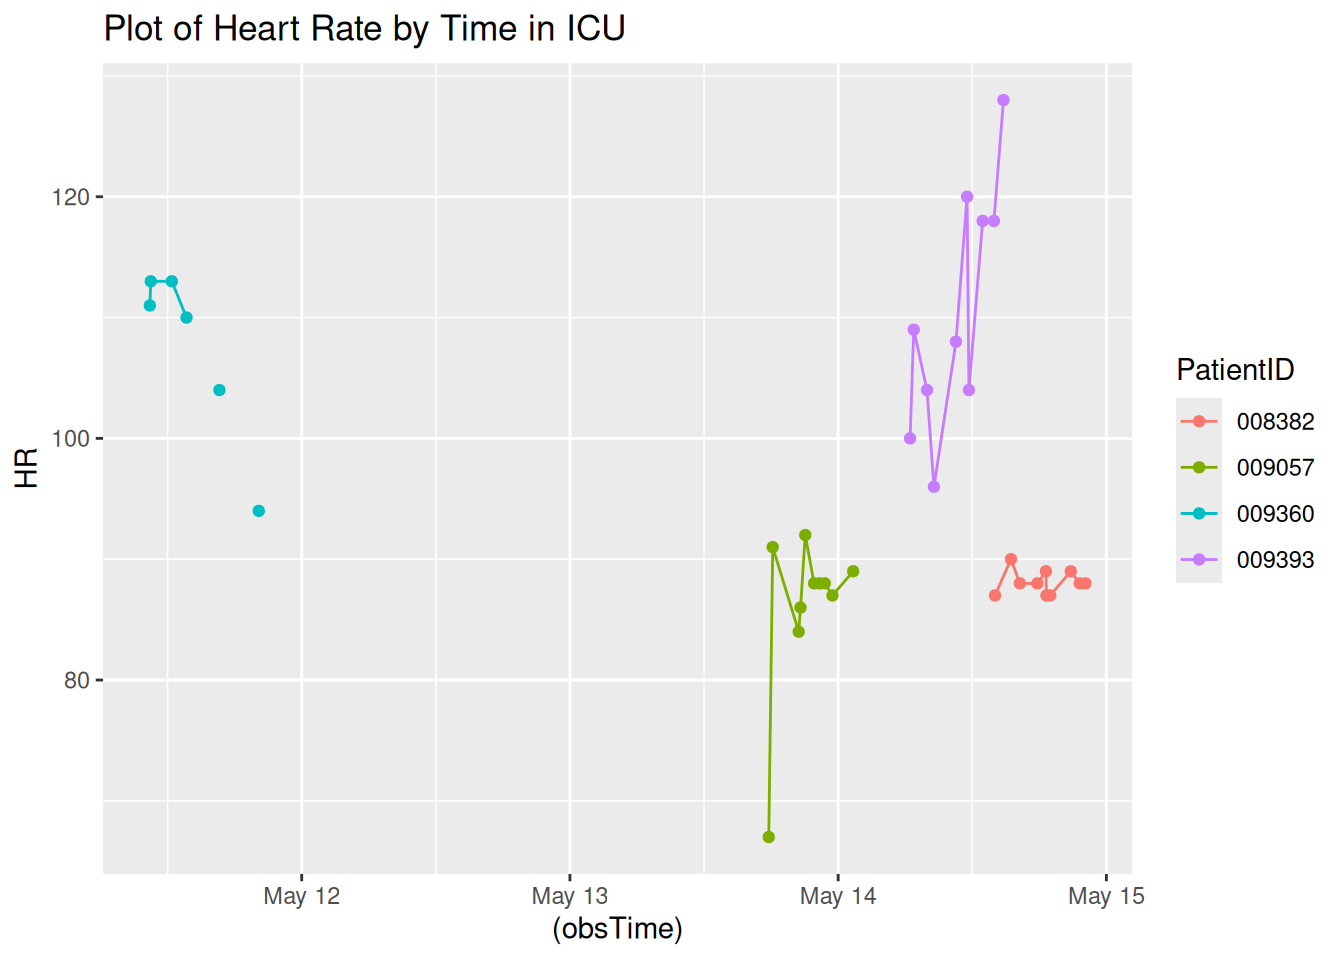
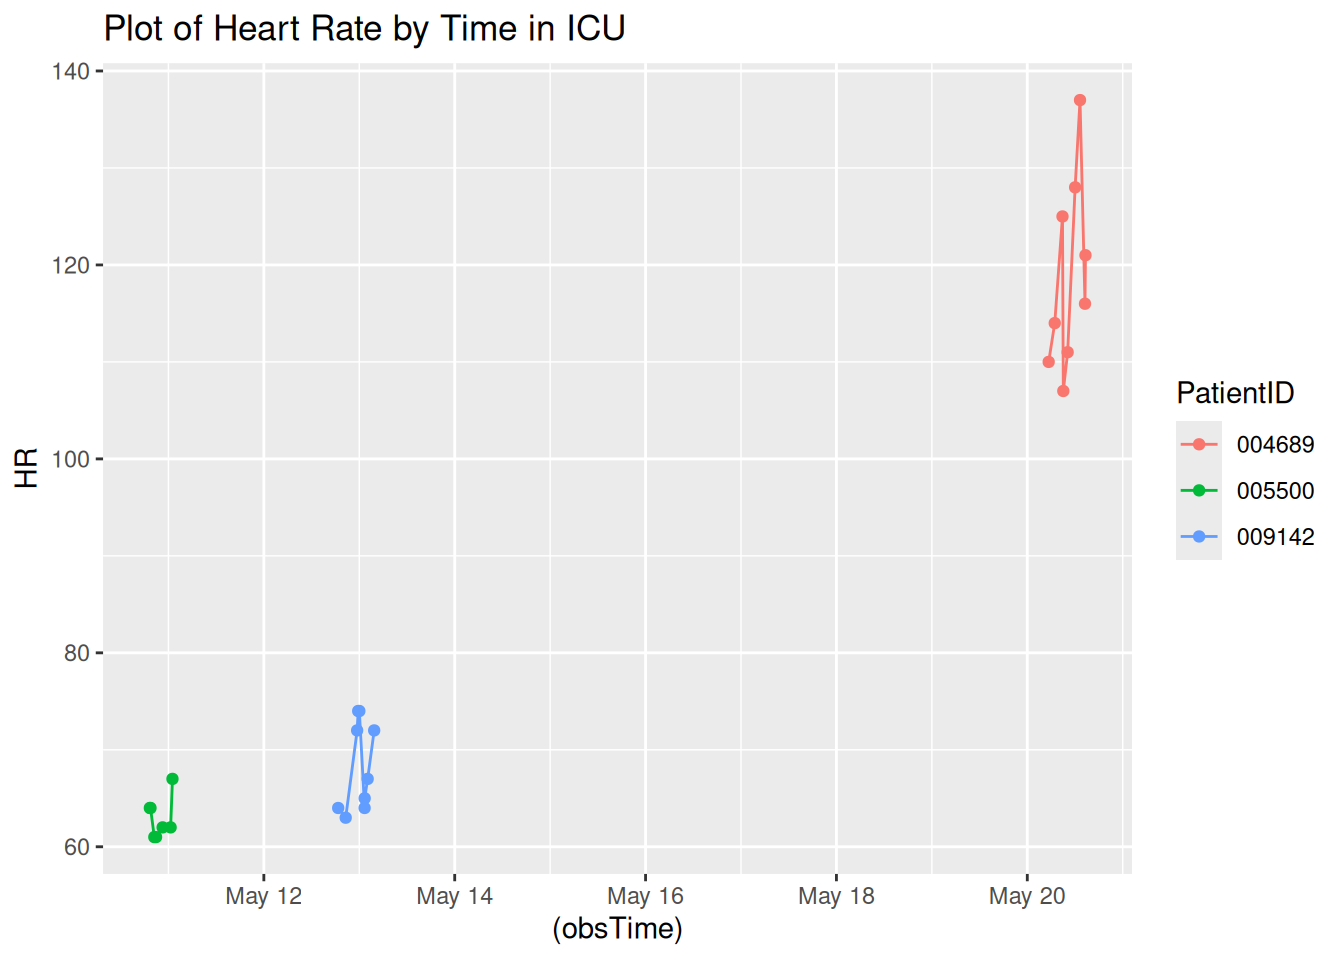
Updated report

diff --git a/A7.html b/A7.html
@@ -118,7 +118,7 @@ pre > code.sourceCode > span > a:first-child::before { text-decoration: underlin
 </div>
 <div class="sourceCode cell-code" id="cb4"><pre class="sourceCode r code-with-copy"><code class="sourceCode r"><span id="cb4-1"><a href="#cb4-1" aria-hidden="true" tabindex="-1"></a><span class="fu">toc</span>()</span></code><button title="Copy to Clipboard" class="code-copy-button"><i class="bi"></i></button></pre></div>
 <div class="cell-output cell-output-stdout">
-<pre><code>12.625 sec elapsed</code></pre>
+<pre><code>11.566 sec elapsed</code></pre>
 </div>
 <div class="sourceCode cell-code" id="cb6"><pre class="sourceCode r code-with-copy"><code class="sourceCode r"><span id="cb6-1"><a href="#cb6-1" aria-hidden="true" tabindex="-1"></a><span class="fu">tic</span>()</span>
 <span id="cb6-2"><a href="#cb6-2" aria-hidden="true" tabindex="-1"></a>test1<span class="ot">=</span><span class="fu">makeSepsisDataset</span>(<span class="at">n=</span><span class="dv">50</span>,<span class="at">read_fn =</span> <span class="st">"read_delim"</span>)</span>
@@ -128,7 +128,7 @@ pre > code.sourceCode > span > a:first-child::before { text-decoration: underlin
 </div>
 <div class="sourceCode cell-code" id="cb8"><pre class="sourceCode r code-with-copy"><code class="sourceCode r"><span id="cb8-1"><a href="#cb8-1" aria-hidden="true" tabindex="-1"></a><span class="fu">toc</span>()</span></code><button title="Copy to Clipboard" class="code-copy-button"><i class="bi"></i></button></pre></div>
 <div class="cell-output cell-output-stdout">
-<pre><code>8.411 sec elapsed</code></pre>
+<pre><code>7.326 sec elapsed</code></pre>
 </div>
 <div class="sourceCode cell-code" id="cb10"><pre class="sourceCode r code-with-copy"><code class="sourceCode r"><span id="cb10-1"><a href="#cb10-1" aria-hidden="true" tabindex="-1"></a><span class="co"># n=100</span></span>
 <span id="cb10-2"><a href="#cb10-2" aria-hidden="true" tabindex="-1"></a><span class="fu">tic</span>()</span>
@@ -139,7 +139,7 @@ pre > code.sourceCode > span > a:first-child::before { text-decoration: underlin
 </div>
 <div class="sourceCode cell-code" id="cb12"><pre class="sourceCode r code-with-copy"><code class="sourceCode r"><span id="cb12-1"><a href="#cb12-1" aria-hidden="true" tabindex="-1"></a><span class="fu">toc</span>()</span></code><button title="Copy to Clipboard" class="code-copy-button"><i class="bi"></i></button></pre></div>
 <div class="cell-output cell-output-stdout">
-<pre><code>12.834 sec elapsed</code></pre>
+<pre><code>11.17 sec elapsed</code></pre>
 </div>
 <div class="sourceCode cell-code" id="cb14"><pre class="sourceCode r code-with-copy"><code class="sourceCode r"><span id="cb14-1"><a href="#cb14-1" aria-hidden="true" tabindex="-1"></a><span class="fu">tic</span>()</span>
 <span id="cb14-2"><a href="#cb14-2" aria-hidden="true" tabindex="-1"></a>test1<span class="ot">=</span><span class="fu">makeSepsisDataset</span>(<span class="at">n=</span><span class="dv">100</span>,<span class="at">read_fn =</span> <span class="st">"read_delim"</span>)</span>
@@ -149,7 +149,7 @@ pre > code.sourceCode > span > a:first-child::before { text-decoration: underlin
 </div>
 <div class="sourceCode cell-code" id="cb16"><pre class="sourceCode r code-with-copy"><code class="sourceCode r"><span id="cb16-1"><a href="#cb16-1" aria-hidden="true" tabindex="-1"></a><span class="fu">toc</span>()</span></code><button title="Copy to Clipboard" class="code-copy-button"><i class="bi"></i></button></pre></div>
 <div class="cell-output cell-output-stdout">
-<pre><code>15.452 sec elapsed</code></pre>
+<pre><code>13.959 sec elapsed</code></pre>
 </div>
 <div class="sourceCode cell-code" id="cb18"><pre class="sourceCode r code-with-copy"><code class="sourceCode r"><span id="cb18-1"><a href="#cb18-1" aria-hidden="true" tabindex="-1"></a><span class="co"># n=500</span></span>
 <span id="cb18-2"><a href="#cb18-2" aria-hidden="true" tabindex="-1"></a><span class="fu">tic</span>()</span>
@@ -160,7 +160,7 @@ pre > code.sourceCode > span > a:first-child::before { text-decoration: underlin
 </div>
 <div class="sourceCode cell-code" id="cb20"><pre class="sourceCode r code-with-copy"><code class="sourceCode r"><span id="cb20-1"><a href="#cb20-1" aria-hidden="true" tabindex="-1"></a><span class="fu">toc</span>()</span></code><button title="Copy to Clipboard" class="code-copy-button"><i class="bi"></i></button></pre></div>
 <div class="cell-output cell-output-stdout">
-<pre><code>63.763 sec elapsed</code></pre>
+<pre><code>56.246 sec elapsed</code></pre>
 </div>
 <div class="sourceCode cell-code" id="cb22"><pre class="sourceCode r code-with-copy"><code class="sourceCode r"><span id="cb22-1"><a href="#cb22-1" aria-hidden="true" tabindex="-1"></a><span class="fu">tic</span>()</span>
 <span id="cb22-2"><a href="#cb22-2" aria-hidden="true" tabindex="-1"></a>test1<span class="ot">=</span><span class="fu">makeSepsisDataset</span>(<span class="at">n=</span><span class="dv">500</span>,<span class="at">read_fn =</span> <span class="st">"read_delim"</span>)</span>
@@ -170,7 +170,7 @@ pre > code.sourceCode > span > a:first-child::before { text-decoration: underlin
 </div>
 <div class="sourceCode cell-code" id="cb24"><pre class="sourceCode r code-with-copy"><code class="sourceCode r"><span id="cb24-1"><a href="#cb24-1" aria-hidden="true" tabindex="-1"></a><span class="fu">toc</span>()</span></code><button title="Copy to Clipboard" class="code-copy-button"><i class="bi"></i></button></pre></div>
 <div class="cell-output cell-output-stdout">
-<pre><code>78.297 sec elapsed</code></pre>
+<pre><code>71.444 sec elapsed</code></pre>
 </div>
 </div>
 <p><strong>Task 3</strong></p>
@@ -196,7 +196,7 @@ pre > code.sourceCode > span > a:first-child::before { text-decoration: underlin
 <span id="cb28-4"><a href="#cb28-4" aria-hidden="true" tabindex="-1"></a></span>
 <span id="cb28-5"><a href="#cb28-5" aria-hidden="true" tabindex="-1"></a><span class="fu">Sys.time</span>()</span></code><button title="Copy to Clipboard" class="code-copy-button"><i class="bi"></i></button></pre></div>
 <div class="cell-output cell-output-stdout">
-<pre><code>[1] "2025-05-10 18:31:38 UTC"</code></pre>
+<pre><code>[1] "2025-05-10 19:19:50 UTC"</code></pre>
 </div>
 <div class="sourceCode cell-code" id="cb30"><pre class="sourceCode r code-with-copy"><code class="sourceCode r"><span id="cb30-1"><a href="#cb30-1" aria-hidden="true" tabindex="-1"></a>dfnew <span class="ot">&lt;-</span> df <span class="sc">%&gt;%</span></span>
 <span id="cb30-2"><a href="#cb30-2" aria-hidden="true" tabindex="-1"></a>  <span class="fu">subset</span>(SepsisLabel<span class="sc">==</span><span class="dv">1</span>)</span>
@@ -225,40 +225,31 @@ pre > code.sourceCode > span > a:first-child::before { text-decoration: underlin
 </thead>
 <tbody>
 <tr class="odd">
-<td style="text-align: left;">008382</td>
-<td style="text-align: right;">100</td>
-<td style="text-align: right;">88</td>
-<td style="text-align: right;">37.9</td>
-<td style="text-align: right;">31</td>
+<td style="text-align: left;">004689</td>
+<td style="text-align: right;">236</td>
+<td style="text-align: right;">121</td>
+<td style="text-align: right;">37.78</td>
+<td style="text-align: right;">14</td>
 <td style="text-align: right;">1</td>
-<td style="text-align: left;">2025-05-14 22:07:45</td>
+<td style="text-align: left;">2025-05-20 14:37:46</td>
 </tr>
 <tr class="even">
-<td style="text-align: left;">009057</td>
-<td style="text-align: right;">79</td>
-<td style="text-align: right;">89</td>
+<td style="text-align: left;">005500</td>
+<td style="text-align: right;">6</td>
+<td style="text-align: right;">67</td>
 <td style="text-align: right;">NA</td>
-<td style="text-align: right;">17</td>
+<td style="text-align: right;">16</td>
 <td style="text-align: right;">1</td>
-<td style="text-align: left;">2025-05-14 01:20:50</td>
+<td style="text-align: left;">2025-05-11 01:01:08</td>
 </tr>
 <tr class="odd">
-<td style="text-align: left;">009360</td>
-<td style="text-align: right;">28</td>
-<td style="text-align: right;">94</td>
-<td style="text-align: right;">NA</td>
-<td style="text-align: right;">17</td>
+<td style="text-align: left;">009142</td>
+<td style="text-align: right;">58</td>
+<td style="text-align: right;">72</td>
+<td style="text-align: right;">38.39</td>
+<td style="text-align: right;">14</td>
 <td style="text-align: right;">1</td>
-<td style="text-align: left;">2025-05-11 20:09:38</td>
-</tr>
-<tr class="even">
-<td style="text-align: left;">009393</td>
-<td style="text-align: right;">94</td>
-<td style="text-align: right;">128</td>
-<td style="text-align: right;">NA</td>
-<td style="text-align: right;">24</td>
-<td style="text-align: right;">1</td>
-<td style="text-align: left;">2025-05-14 14:47:31</td>
+<td style="text-align: left;">2025-05-13 03:44:50</td>
 </tr>
 </tbody>
 </table>
